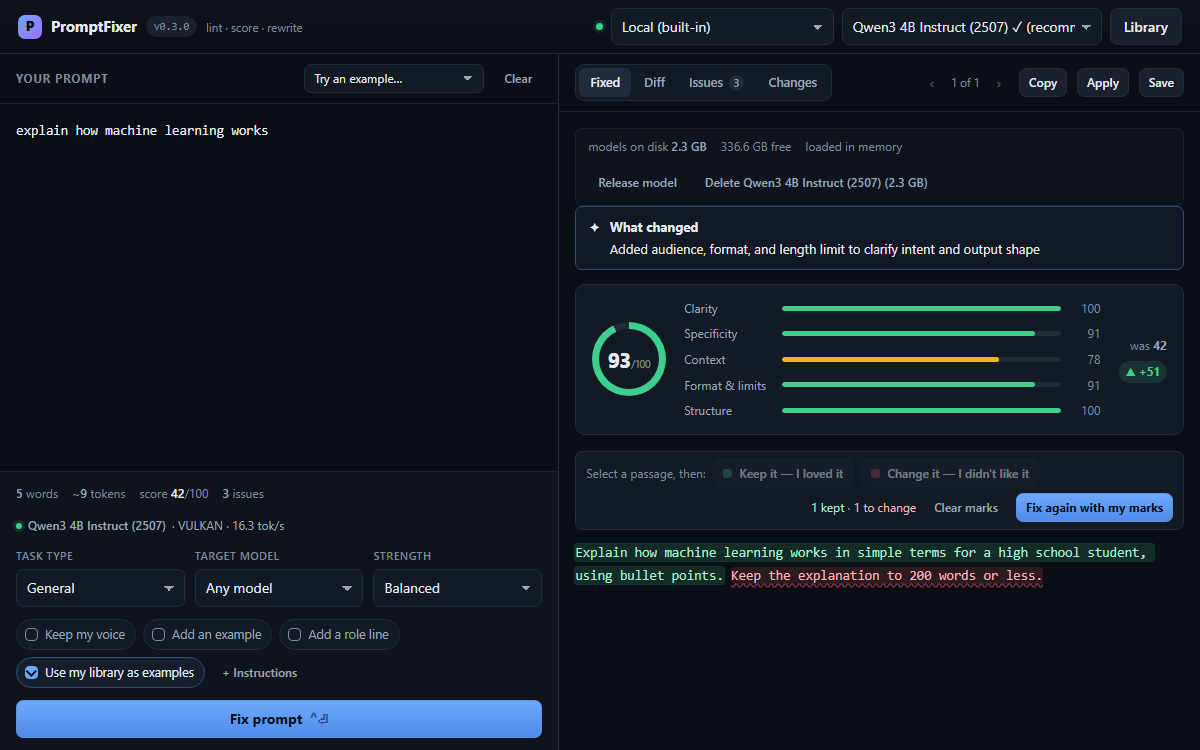
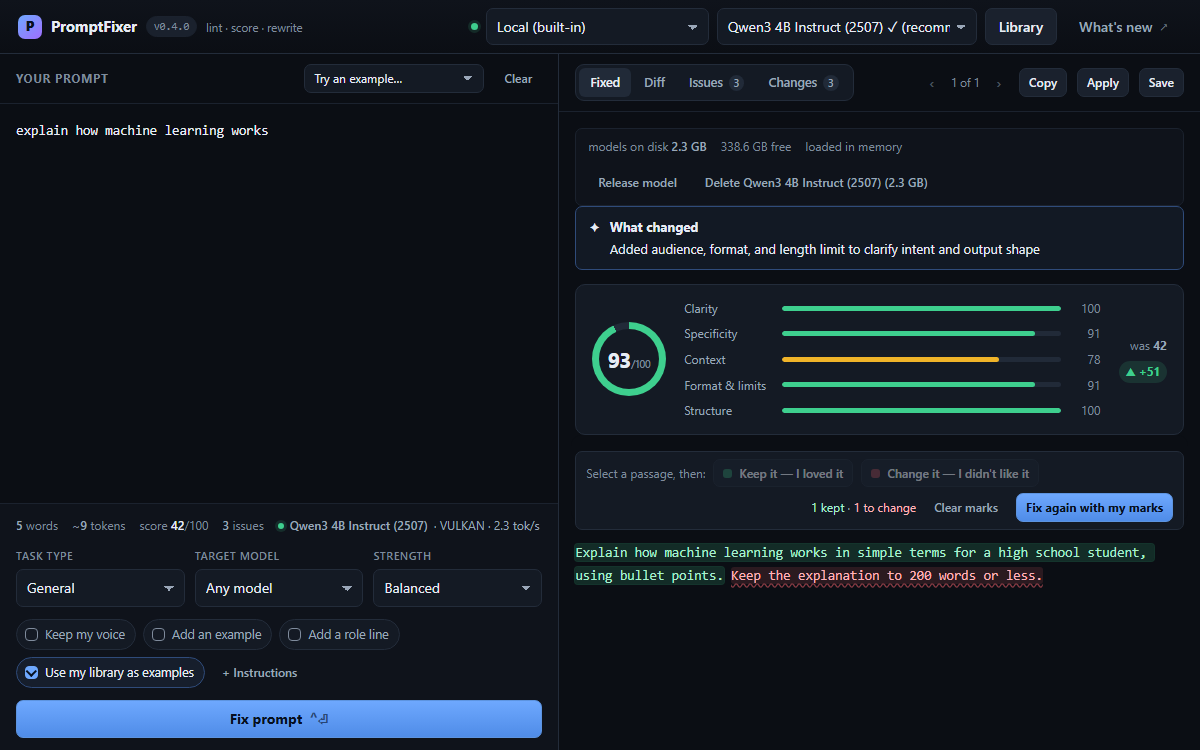
docs: 0.4.0 download
The README's download block, docs/INSTALL.md and docs/releases/v0.4.0.md
point at the published 0.4.0 installer (339.1 MiB, SHA-256 a8748c36…f566),
and the website's screenshot is recaptured from the 0.4.0 build so it shows
the What's new link the release adds.

Changed region(s): [[0.0, 0.644, 0.4625, 0.7053], [0.37, 0.0307, 0.9867, 0.0613], [0.6783, 0.092, 0.7092, 0.1227]]

diff --git a/README.md b/README.md
@@ -23,14 +23,14 @@ remain available as an optional switch — but nothing requires them.
 
 ## Download (Windows)
 
-**[PromptFixer-0.3.0-win-x64.exe](https://github.com/Osman19702/PromptFixer/releases/download/v0.3.0/PromptFixer-0.3.0-win-x64.exe)**
+**[PromptFixer-0.4.0-win-x64.exe](https://github.com/Osman19702/PromptFixer/releases/download/v0.4.0/PromptFixer-0.4.0-win-x64.exe)**
 (339.1 MiB, Windows 10/11 64-bit) from the
-[v0.3.0 release](https://github.com/Osman19702/PromptFixer/releases/tag/v0.3.0). The 2.5 GB model
+[v0.4.0 release](https://github.com/Osman19702/PromptFixer/releases/tag/v0.4.0). The 2.5 GB model
 downloads on first run; after that the app works offline.
 
[1 lines of base64/hex data omitted]
-  [`SHA256SUMS.txt`](https://github.com/Osman19702/PromptFixer/releases/download/v0.3.0/SHA256SUMS.txt).
-  Check it in PowerShell with `(Get-FileHash .\PromptFixer-0.3.0-win-x64.exe).Hash.ToLower()`.
[1 lines of base64/hex data omitted]
+  [`SHA256SUMS.txt`](https://github.com/Osman19702/PromptFixer/releases/download/v0.4.0/SHA256SUMS.txt).
+  Check it in PowerShell with `(Get-FileHash .\PromptFixer-0.4.0-win-x64.exe).Hash.ToLower()`.
 - The installer is not code-signed yet, so SmartScreen shows "Windows protected your PC": click
   **More info**, then **Run anyway**, once the hash matches.
 - Full guide: [docs/INSTALL.md](docs/INSTALL.md).

diff --git a/docs/releases/v0.4.0.md b/docs/releases/v0.4.0.md
@@ -6,11 +6,11 @@ Lints, scores and rewrites LLM prompts with a built-in local model (Qwen3 4B); n
 
 Everything else is in [CHANGELOG.md](../../CHANGELOG.md#040---2026-09-27).
 
-**Download:** `PromptFixer-0.4.0-win-x64.exe` (TBD MiB). Windows 10/11, 64-bit. The model (2.5 GB, or the 1 GB "lite" tier) is downloaded on first run into `%USERPROFILE%\.promptfixer\models`.
+**Download:** `PromptFixer-0.4.0-win-x64.exe` (339.1 MiB). Windows 10/11, 64-bit. The model (2.5 GB, or the 1 GB "lite" tier) is downloaded on first run into `%USERPROFILE%\.promptfixer\models`.
 
 **Upgrading from 0.3.0:** run the new installer over the old one. Your library (`%APPDATA%\PromptFixer\data\library.json`) and the downloaded model are outside the install folder and stay as they are.
 
-**Verify:** installer SHA-256 `TBD` (`SHA256SUMS.txt` is attached). PowerShell: `(Get-FileHash .\PromptFixer-0.4.0-win-x64.exe).Hash.ToLower()` must equal it.
[1 lines of base64/hex data omitted]
 
 **Not code-signed yet:** Windows shows "Windows protected your PC" → *More info* → *Run anyway*. Compare the hash first if in doubt. Full guide: `docs/INSTALL.md`.
 

diff --git a/docs/INSTALL.md b/docs/INSTALL.md
@@ -13,14 +13,14 @@ install first, no Node.js, no command line, no account.
 
 ## Install
 
-1. Download **PromptFixer-0.3.0-win-x64.exe**: press **Download** on
+1. Download **PromptFixer-0.4.0-win-x64.exe**: press **Download** on
    [osman19702.github.io/PromptFixer](https://osman19702.github.io/PromptFixer/), or take it from
-   the [v0.3.0 release page](https://github.com/Osman19702/PromptFixer/releases/tag/v0.3.0) or the
+   the [v0.4.0 release page](https://github.com/Osman19702/PromptFixer/releases/tag/v0.4.0) or the
    download button on [osmanturalioglu.com](https://www.osmanturalioglu.com/).
 2. Double-click it. Windows may show a blue **"Windows protected your PC"** screen because the
    installer is not yet code-signed. Click **More info**, then **Run anyway**. (To check the file
    first, compare its SHA-256 with the line in `SHA256SUMS.txt` on the same release page. In
-   PowerShell: `(Get-FileHash .\PromptFixer-0.3.0-win-x64.exe).Hash.ToLower()`.)
+   PowerShell: `(Get-FileHash .\PromptFixer-0.4.0-win-x64.exe).Hash.ToLower()`.)
 3. Choose an install folder or accept the default, and finish. PromptFixer opens by itself and adds a
    Start menu entry.
 
